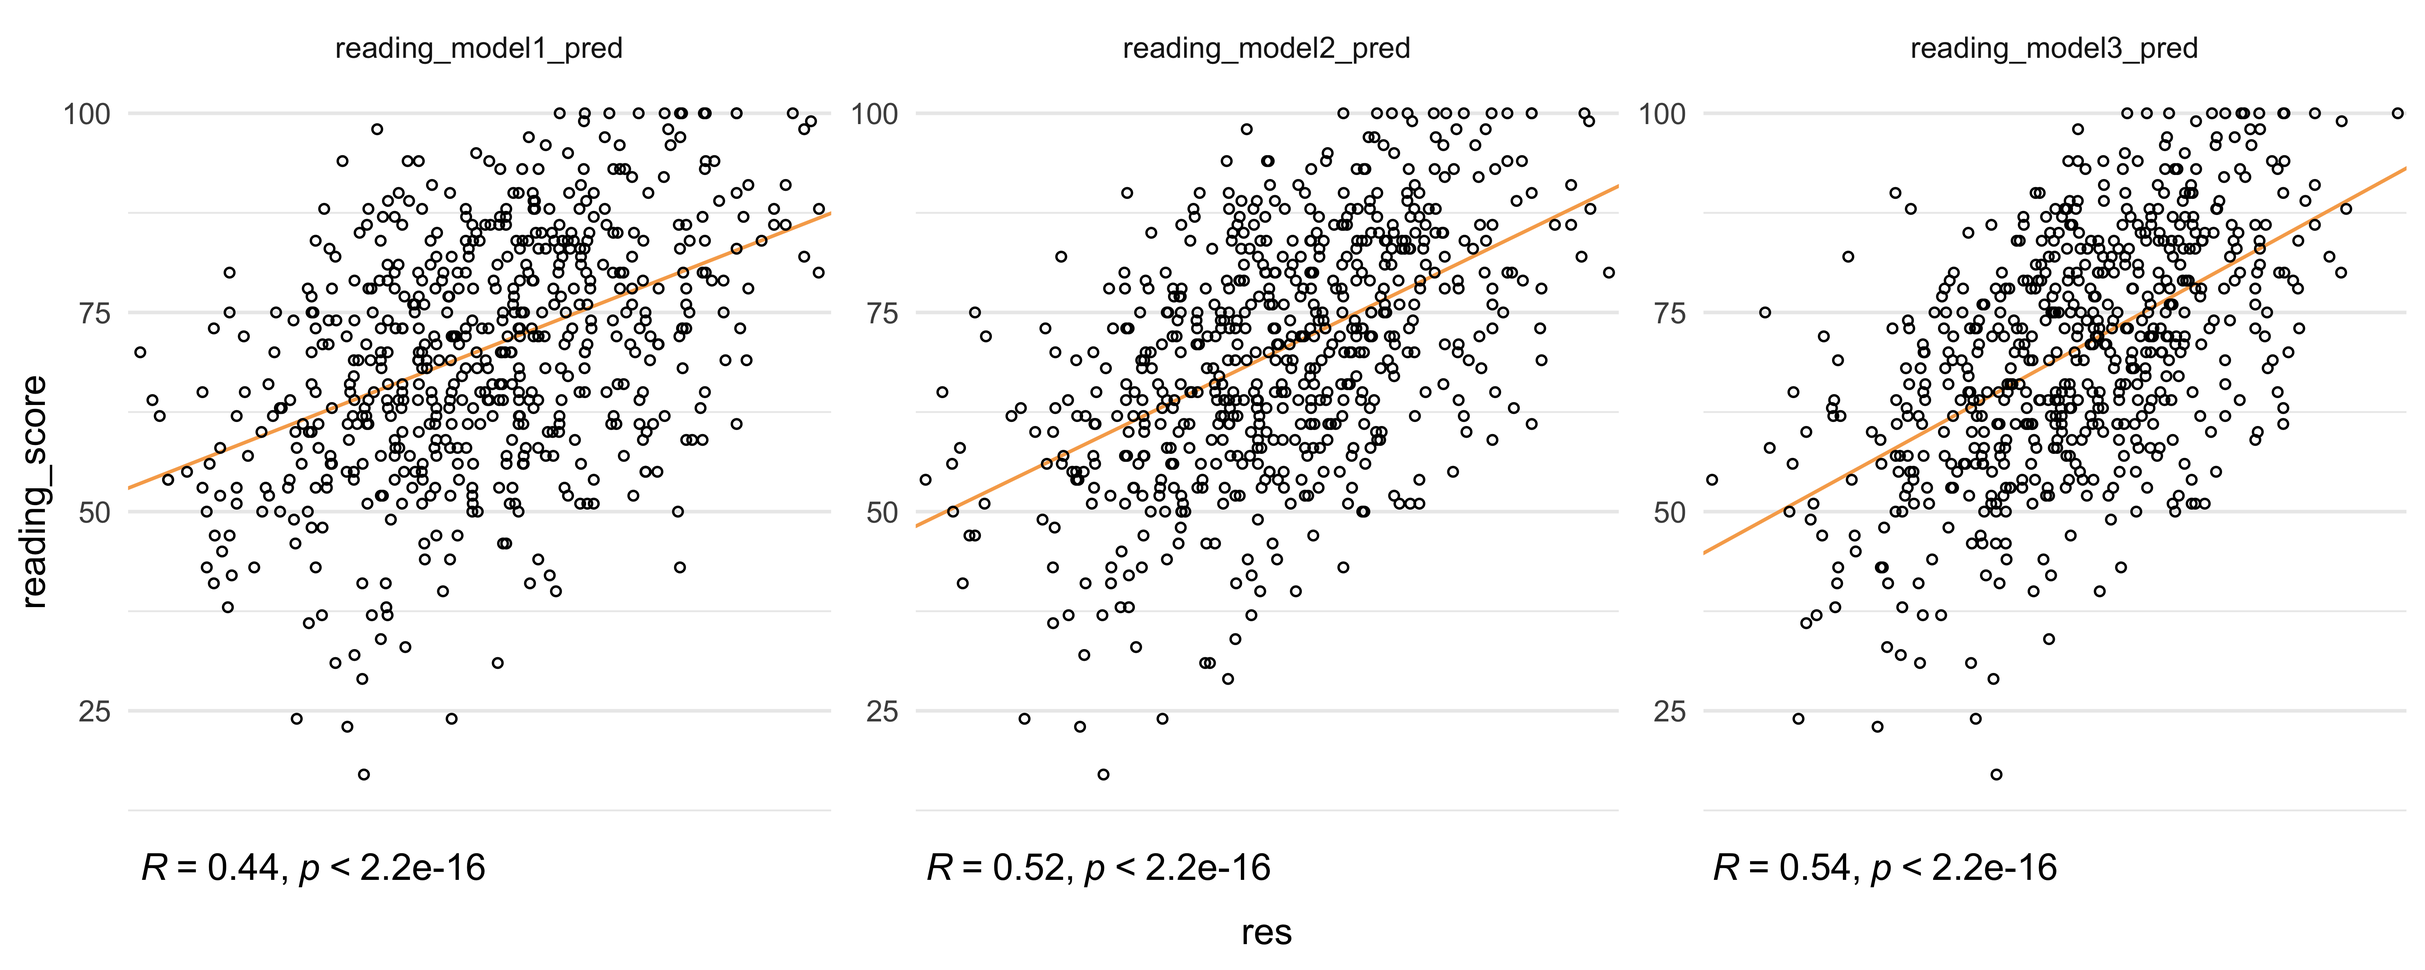
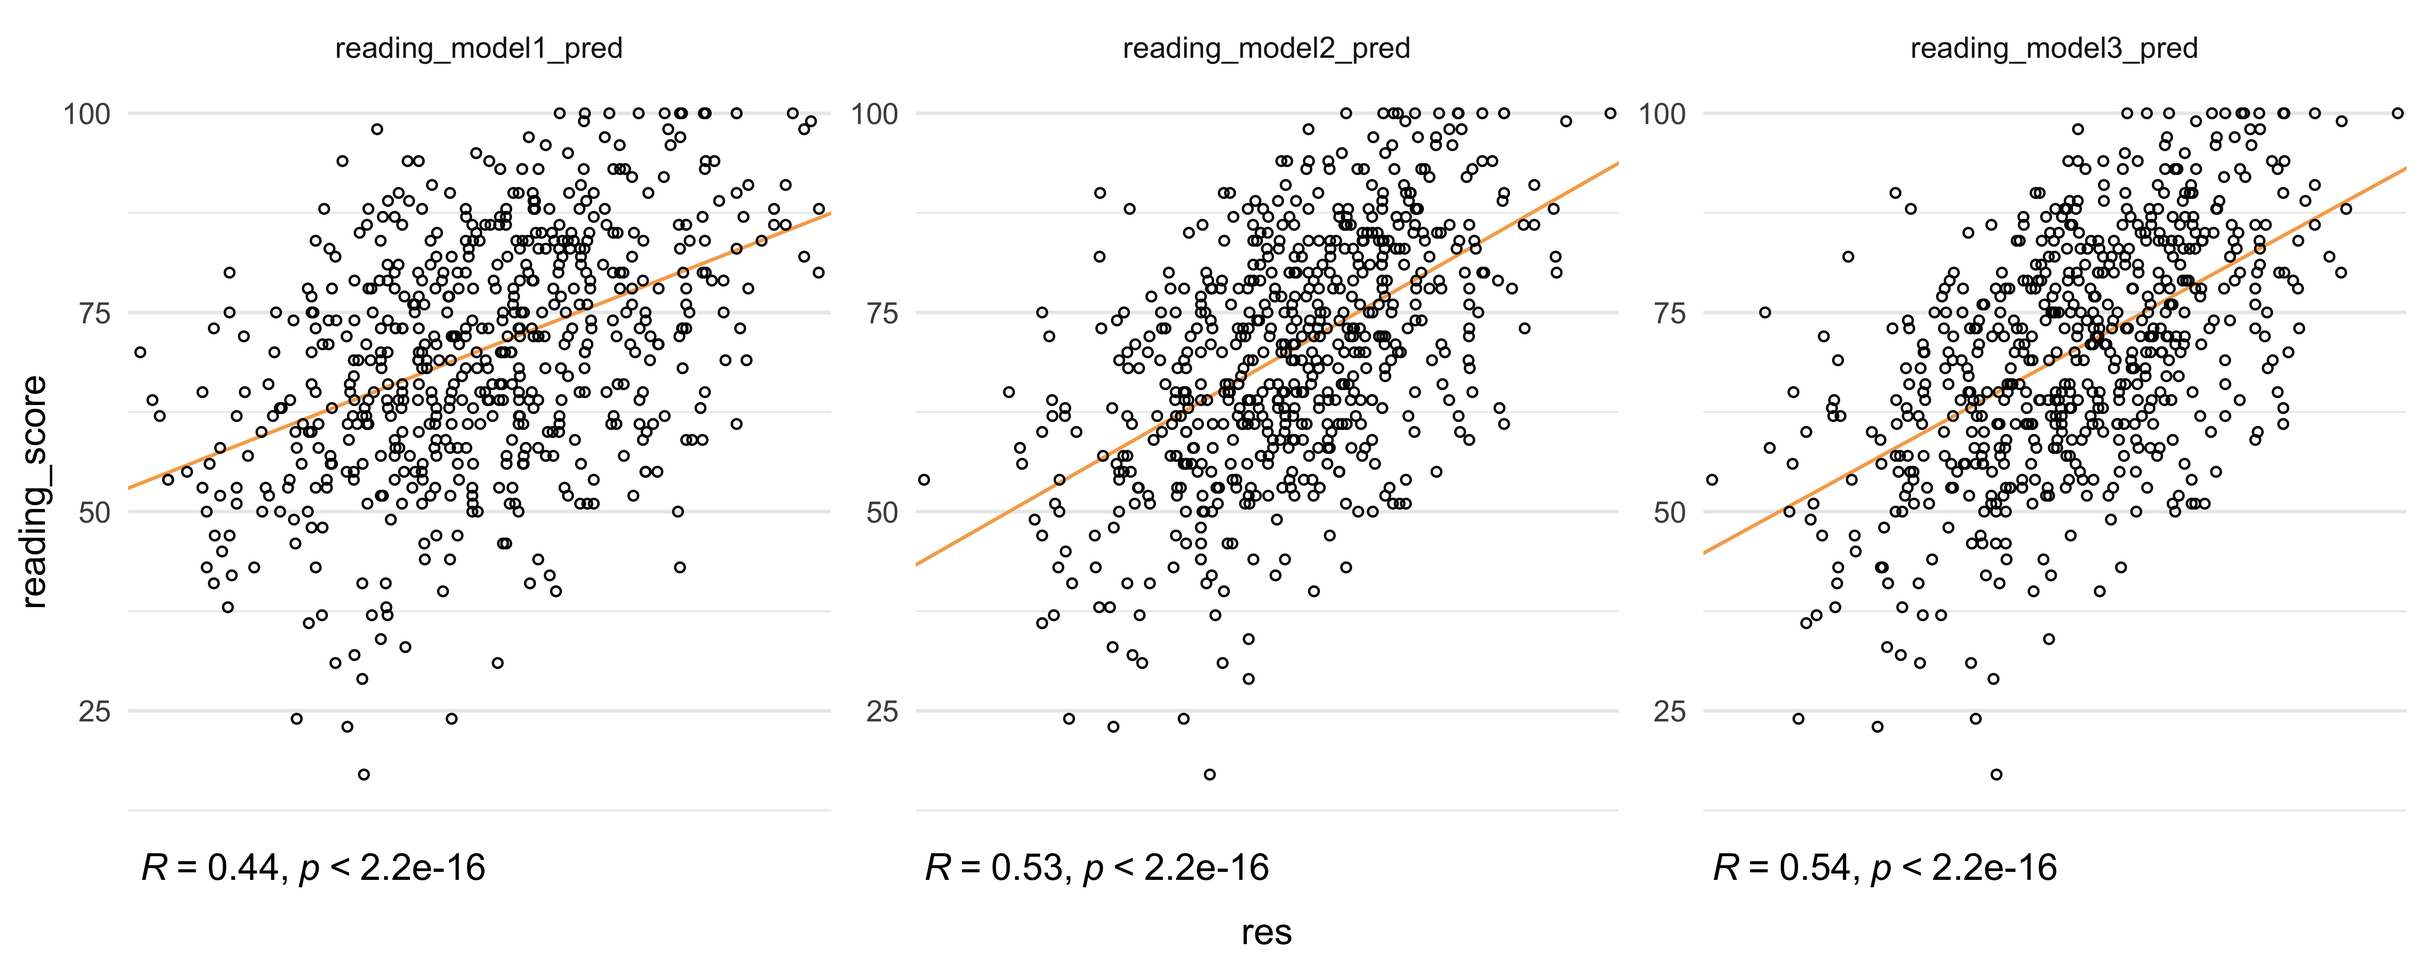
Final Tweaking

Changed region(s): [[0.374, 0.0938, 0.6545, 0.6562], [0.4052, 0.875, 0.5298, 0.9062]]

diff --git a/prediction_reading_score.md b/prediction_reading_score.md
@@ -300,50 +300,81 @@ summary(reading_model2v1)
 ``` r
 ### No significant interaction effect between `ethnic_group` and `parent educ` and adjusted R^2 value decreased. Too many covariates from the interaction. Will not be keeping this.
 
-# Add lunch_type covariate.
-reading_model2v2 <- lm(transformed_reading ~ gender + parent_educ + lunch_type + ethnic_group + test_prep + parent_marital_status + wkly_study_hours, data = score_df)
+# Add lunch_type covariate and added interaction effect between `parent_marital_status` and `wkly_study_hours`
+reading_model2v2 <- lm(transformed_reading ~ gender + parent_educ + lunch_type + ethnic_group + test_prep + parent_marital_status + wkly_study_hours + parent_marital_status*wkly_study_hours, data = score_df)
 summary(reading_model2v2)
 ```
 
     ## 
     ## Call:
     ## lm(formula = transformed_reading ~ gender + parent_educ + lunch_type + 
-    ##     ethnic_group + test_prep + parent_marital_status + wkly_study_hours, 
-    ##     data = score_df)
+    ##     ethnic_group + test_prep + parent_marital_status + wkly_study_hours + 
+    ##     parent_marital_status * wkly_study_hours, data = score_df)
     ## 
     ## Residuals:
-    ##      Min       1Q   Median       3Q      Max 
-    ## -304.377  -84.075   -0.502   87.336  300.484 
+    ##     Min      1Q  Median      3Q     Max 
+    ## -347.49  -80.64   -2.18   88.20  319.93 
     ## 
     ## Coefficients:
-    ##                               Estimate Std. Error t value Pr(>|t|)    
-    ## (Intercept)                    501.466     25.910  19.354  < 2e-16 ***
-    ## gendermale                     -73.109     10.200  -7.167 2.38e-12 ***
-    ## parent_educassociate's degree   44.436     15.863   2.801 0.005264 ** 
-    ## parent_educbachelor's degree    68.744     18.611   3.694 0.000242 ***
-    ## parent_educhigh school          -4.800     16.077  -0.299 0.765353    
-    ## parent_educmaster's degree      82.776     22.700   3.647 0.000290 ***
-    ## parent_educsome college         22.055     16.264   1.356 0.175613    
-    ## lunch_typefree/reduced         -77.600     10.554  -7.353 6.79e-13 ***
-    ## ethnic_groupgroup B            -14.196     20.714  -0.685 0.493400    
-    ## ethnic_groupgroup C             -8.707     19.823  -0.439 0.660660    
-    ## ethnic_groupgroup D             21.702     19.942   1.088 0.276951    
-    ## ethnic_groupgroup E             52.502     21.874   2.400 0.016706 *  
-    ## test_prepnone                  -59.521     10.684  -5.571 3.91e-08 ***
-    ## parent_marital_statusdivorced  -16.893     16.450  -1.027 0.304882    
-    ## parent_marital_statusmarried    29.925     12.367   2.420 0.015844 *  
-    ## parent_marital_statuswidowed    34.210     33.268   1.028 0.304236    
-    ## wkly_study_hours5-10            25.125     12.026   2.089 0.037139 *  
-    ## wkly_study_hours> 10            12.947     15.707   0.824 0.410113    
+    ##                                                    Estimate Std. Error t value
+    ## (Intercept)                                         463.192     29.824  15.531
+    ## gendermale                                          -71.429     10.220  -6.989
+    ## parent_educassociate's degree                        45.411     15.859   2.863
+    ## parent_educbachelor's degree                         70.884     18.634   3.804
+    ## parent_educhigh school                               -7.697     16.110  -0.478
+    ## parent_educmaster's degree                           83.598     22.656   3.690
+    ## parent_educsome college                              23.006     16.228   1.418
+    ## lunch_typefree/reduced                              -78.070     10.569  -7.386
+    ## ethnic_groupgroup B                                 -10.900     20.646  -0.528
+    ## ethnic_groupgroup C                                  -6.444     19.756  -0.326
+    ## ethnic_groupgroup D                                  24.879     19.863   1.253
+    ## ethnic_groupgroup E                                  55.830     21.772   2.564
+    ## test_prepnone                                       -59.990     10.642  -5.637
+    ## parent_marital_statusdivorced                        46.634     32.321   1.443
+    ## parent_marital_statusmarried                         72.135     23.073   3.126
+    ## parent_marital_statuswidowed                        129.611     88.150   1.470
+    ## wkly_study_hours5-10                                 64.224     23.978   2.679
+    ## wkly_study_hours> 10                                 93.013     31.065   2.994
+    ## parent_marital_statusdivorced:wkly_study_hours5-10  -62.714     38.919  -1.611
+    ## parent_marital_statusmarried:wkly_study_hours5-10   -48.107     28.466  -1.690
+    ## parent_marital_statuswidowed:wkly_study_hours5-10  -110.633     96.890  -1.142
+    ## parent_marital_statusdivorced:wkly_study_hours> 10 -166.633     51.146  -3.258
+    ## parent_marital_statusmarried:wkly_study_hours> 10   -91.362     36.952  -2.472
+    ## parent_marital_statuswidowed:wkly_study_hours> 10  -140.502    124.991  -1.124
+    ##                                                    Pr(>|t|)    
+    ## (Intercept)                                         < 2e-16 ***
+    ## gendermale                                         7.87e-12 ***
+    ## parent_educassociate's degree                      0.004348 ** 
+    ## parent_educbachelor's degree                       0.000158 ***
+    ## parent_educhigh school                             0.633007    
+    ## parent_educmaster's degree                         0.000246 ***
+    ## parent_educsome college                            0.156833    
+    ## lunch_typefree/reduced                             5.47e-13 ***
+    ## ethnic_groupgroup B                                0.597739    
+    ## ethnic_groupgroup C                                0.744423    
+    ## ethnic_groupgroup D                                0.210903    
+    ## ethnic_groupgroup E                                0.010598 *  
+    ## test_prepnone                                      2.74e-08 ***
+    ## parent_marital_statusdivorced                      0.149624    
+    ## parent_marital_statusmarried                       0.001861 ** 
+    ## parent_marital_statuswidowed                       0.142025    
+    ## wkly_study_hours5-10                               0.007611 ** 
+    ## wkly_study_hours> 10                               0.002873 ** 
+    ## parent_marital_statusdivorced:wkly_study_hours5-10 0.107653    
+    ## parent_marital_statusmarried:wkly_study_hours5-10  0.091585 .  
+    ## parent_marital_statuswidowed:wkly_study_hours5-10  0.254009    
+    ## parent_marital_statusdivorced:wkly_study_hours> 10 0.001190 ** 
+    ## parent_marital_statusmarried:wkly_study_hours> 10  0.013713 *  
+    ## parent_marital_statuswidowed:wkly_study_hours> 10  0.261453    
     ## ---
     ## Signif. codes:  0 '***' 0.001 '**' 0.01 '*' 0.05 '.' 0.1 ' ' 1
     ## 
-    ## Residual standard error: 121.3 on 569 degrees of freedom
-    ## Multiple R-squared:  0.2692, Adjusted R-squared:  0.2474 
-    ## F-statistic: 12.33 on 17 and 569 DF,  p-value: < 2.2e-16
+    ## Residual standard error: 120.6 on 563 degrees of freedom
+    ## Multiple R-squared:  0.2852, Adjusted R-squared:  0.256 
+    ## F-statistic: 9.766 on 23 and 563 DF,  p-value: < 2.2e-16
 
 ``` r
-### Significant interaction with lunch_type. However, ethnic_group variables demonstrates to be insignificant when lunch_type is added.
+### lunch_type is a significant term and the interaction also is significant.  However, ethnic_group variables demonstrates to be less significant when lunch_type is added.
 
 # Add interaction between `gender`/ `wkly_study_hours` / `test_prep` and `parent_educ`.
 reading_model2v3 <- lm(transformed_reading ~ gender + lunch_type + parent_marital_status + gender*parent_educ + test_prep*parent_educ, data = score_df)
@@ -418,7 +449,7 @@ summary(reading_model2v3)
 ```
 
 ``` r
-reading_model2 <- lm(transformed_reading ~ gender + parent_educ + lunch_type + ethnic_group + test_prep + parent_marital_status + wkly_study_hours, data = score_df)
+reading_model2 <- lm(transformed_reading ~ gender + parent_educ + lunch_type + ethnic_group + test_prep + parent_marital_status + wkly_study_hours + parent_marital_status*wkly_study_hours, data = score_df)
 
 reading_model2 |> 
   broom::tidy() |> 
@@ -430,26 +461,32 @@ reading_model2 |>
   knitr::kable(digits = 50)
 ```
 
-| term                          | estimate | std.error | statistic |  p.value |
-|:------------------------------|---------:|----------:|----------:|---------:|
-| (Intercept)                   |  501.466 |    25.910 |    19.354 | 0.00e+00 |
-| gendermale                    |  -73.109 |    10.200 |    -7.167 | 2.38e-12 |
-| parent_educassociate’s degree |   44.436 |    15.863 |     2.801 | 5.26e-03 |
-| parent_educbachelor’s degree  |   68.744 |    18.611 |     3.694 | 2.42e-04 |
-| parent_educhigh school        |   -4.800 |    16.077 |    -0.299 | 7.65e-01 |
-| parent_educmaster’s degree    |   82.776 |    22.700 |     3.647 | 2.90e-04 |
-| parent_educsome college       |   22.055 |    16.264 |     1.356 | 1.76e-01 |
-| lunch_typefree/reduced        |  -77.600 |    10.554 |    -7.353 | 6.79e-13 |
-| ethnic_groupgroup B           |  -14.196 |    20.714 |    -0.685 | 4.93e-01 |
-| ethnic_groupgroup C           |   -8.707 |    19.823 |    -0.439 | 6.61e-01 |
-| ethnic_groupgroup D           |   21.702 |    19.942 |     1.088 | 2.77e-01 |
-| ethnic_groupgroup E           |   52.502 |    21.874 |     2.400 | 1.67e-02 |
-| test_prepnone                 |  -59.521 |    10.684 |    -5.571 | 3.91e-08 |
-| parent_marital_statusdivorced |  -16.893 |    16.450 |    -1.027 | 3.05e-01 |
-| parent_marital_statusmarried  |   29.925 |    12.367 |     2.420 | 1.58e-02 |
-| parent_marital_statuswidowed  |   34.210 |    33.268 |     1.028 | 3.04e-01 |
-| wkly_study_hours5-10          |   25.125 |    12.026 |     2.089 | 3.71e-02 |
-| wkly_study_hours\> 10         |   12.947 |    15.707 |     0.824 | 4.10e-01 |
+| term | estimate | std.error | statistic | p.value |
+|:---|---:|---:|---:|---:|
+| (Intercept) | 463.192 | 29.824 | 15.531 | 1.56e-45 |
+| gendermale | -71.429 | 10.220 | -6.989 | 7.87e-12 |
+| parent_educassociate’s degree | 45.411 | 15.859 | 2.863 | 4.35e-03 |
+| parent_educbachelor’s degree | 70.884 | 18.634 | 3.804 | 1.58e-04 |
+| parent_educhigh school | -7.697 | 16.110 | -0.478 | 6.33e-01 |
+| parent_educmaster’s degree | 83.598 | 22.656 | 3.690 | 2.46e-04 |
+| parent_educsome college | 23.006 | 16.228 | 1.418 | 1.57e-01 |
+| lunch_typefree/reduced | -78.070 | 10.569 | -7.386 | 5.47e-13 |
+| ethnic_groupgroup B | -10.900 | 20.646 | -0.528 | 5.98e-01 |
+| ethnic_groupgroup C | -6.444 | 19.756 | -0.326 | 7.44e-01 |
+| ethnic_groupgroup D | 24.879 | 19.863 | 1.253 | 2.11e-01 |
+| ethnic_groupgroup E | 55.830 | 21.772 | 2.564 | 1.06e-02 |
+| test_prepnone | -59.990 | 10.642 | -5.637 | 2.74e-08 |
+| parent_marital_statusdivorced | 46.634 | 32.321 | 1.443 | 1.50e-01 |
+| parent_marital_statusmarried | 72.135 | 23.073 | 3.126 | 1.86e-03 |
+| parent_marital_statuswidowed | 129.611 | 88.150 | 1.470 | 1.42e-01 |
+| wkly_study_hours5-10 | 64.224 | 23.978 | 2.679 | 7.61e-03 |
+| wkly_study_hours\> 10 | 93.013 | 31.065 | 2.994 | 2.87e-03 |
+| parent_marital_statusdivorced:wkly_study_hours5-10 | -62.714 | 38.919 | -1.611 | 1.08e-01 |
+| parent_marital_statusmarried:wkly_study_hours5-10 | -48.107 | 28.466 | -1.690 | 9.16e-02 |
+| parent_marital_statuswidowed:wkly_study_hours5-10 | -110.633 | 96.890 | -1.142 | 2.54e-01 |
+| parent_marital_statusdivorced:wkly_study_hours\> 10 | -166.633 | 51.146 | -3.258 | 1.19e-03 |
+| parent_marital_statusmarried:wkly_study_hours\> 10 | -91.362 | 36.952 | -2.472 | 1.37e-02 |
+| parent_marital_statuswidowed:wkly_study_hours\> 10 | -140.502 | 124.991 | -1.124 | 2.61e-01 |
 
 ``` r
 par(mfrow = c(2,2))
@@ -994,7 +1031,7 @@ filtered_df <- score_df |>
 #fit a regression model and use k-fold CV to evaluate performance
 model1 <- train(transformed_reading ~ gender + ethnic_group + parent_educ + test_prep + parent_marital_status + wkly_study_hours, data = filtered_df, method = "lm", trControl = ctrl)
 
-model2 <- train(transformed_reading ~ gender + parent_educ + lunch_type + ethnic_group + test_prep + parent_marital_status + wkly_study_hours, data = filtered_df, method = "lm", trControl = ctrl)
+model2 <- train(transformed_reading ~ gender + parent_educ + lunch_type + ethnic_group + test_prep + parent_marital_status + wkly_study_hours + parent_marital_status*wkly_study_hours, data = filtered_df, method = "lm", trControl = ctrl)
 
 model3 <- train(transformed_reading ~ gender + lunch_type + is_first_child:parent_educ + parent_marital_status:wkly_study_hours + ethnic_group:test_prep, data = filtered_df, method = "lm", trControl = ctrl)
 
@@ -1049,7 +1086,7 @@ bind_rows(model1$results, model2$results, model3$results) |>
 | model_id | intercept |    RMSE | Rsquared |     MAE | RMSESD | RsquaredSD | MAESD |
 |---------:|:----------|--------:|---------:|--------:|-------:|-----------:|------:|
 |        1 | TRUE      | 129.251 |    0.160 | 104.486 |  6.984 |      0.067 | 6.426 |
-|        2 | TRUE      | 121.815 |    0.243 |  99.248 |  6.277 |      0.055 | 5.473 |
+|        2 | TRUE      | 121.818 |    0.244 |  99.713 |  5.941 |      0.055 | 5.328 |
 |        3 | TRUE      | 124.509 |    0.214 | 102.166 |  2.568 |      0.014 | 2.064 |
 
 Performance matrices of the 3 Multiple Linear Regression Models
@@ -1065,36 +1102,67 @@ summary(reading_model2)
     ## 
     ## Call:
     ## lm(formula = transformed_reading ~ gender + parent_educ + lunch_type + 
-    ##     ethnic_group + test_prep + parent_marital_status + wkly_study_hours, 
-    ##     data = score_df)
+    ##     ethnic_group + test_prep + parent_marital_status + wkly_study_hours + 
+    ##     parent_marital_status * wkly_study_hours, data = score_df)
     ## 
     ## Residuals:
-    ##      Min       1Q   Median       3Q      Max 
-    ## -304.377  -84.075   -0.502   87.336  300.484 
+    ##     Min      1Q  Median      3Q     Max 
+    ## -347.49  -80.64   -2.18   88.20  319.93 
     ## 
     ## Coefficients:
-    ##                               Estimate Std. Error t value Pr(>|t|)    
-    ## (Intercept)                    501.466     25.910  19.354  < 2e-16 ***
-    ## gendermale                     -73.109     10.200  -7.167 2.38e-12 ***
-    ## parent_educassociate's degree   44.436     15.863   2.801 0.005264 ** 
-    ## parent_educbachelor's degree    68.744     18.611   3.694 0.000242 ***
-    ## parent_educhigh school          -4.800     16.077  -0.299 0.765353    
-    ## parent_educmaster's degree      82.776     22.700   3.647 0.000290 ***
-    ## parent_educsome college         22.055     16.264   1.356 0.175613    
-    ## lunch_typefree/reduced         -77.600     10.554  -7.353 6.79e-13 ***
-    ## ethnic_groupgroup B            -14.196     20.714  -0.685 0.493400    
-    ## ethnic_groupgroup C             -8.707     19.823  -0.439 0.660660    
-    ## ethnic_groupgroup D             21.702     19.942   1.088 0.276951    
-    ## ethnic_groupgroup E             52.502     21.874   2.400 0.016706 *  
-    ## test_prepnone                  -59.521     10.684  -5.571 3.91e-08 ***
-    ## parent_marital_statusdivorced  -16.893     16.450  -1.027 0.304882    
-    ## parent_marital_statusmarried    29.925     12.367   2.420 0.015844 *  
-    ## parent_marital_statuswidowed    34.210     33.268   1.028 0.304236    
-    ## wkly_study_hours5-10            25.125     12.026   2.089 0.037139 *  
-    ## wkly_study_hours> 10            12.947     15.707   0.824 0.410113    
+    ##                                                    Estimate Std. Error t value
+    ## (Intercept)                                         463.192     29.824  15.531
+    ## gendermale                                          -71.429     10.220  -6.989
+    ## parent_educassociate's degree                        45.411     15.859   2.863
+    ## parent_educbachelor's degree                         70.884     18.634   3.804
+    ## parent_educhigh school                               -7.697     16.110  -0.478
+    ## parent_educmaster's degree                           83.598     22.656   3.690
+    ## parent_educsome college                              23.006     16.228   1.418
+    ## lunch_typefree/reduced                              -78.070     10.569  -7.386
+    ## ethnic_groupgroup B                                 -10.900     20.646  -0.528
+    ## ethnic_groupgroup C                                  -6.444     19.756  -0.326
+    ## ethnic_groupgroup D                                  24.879     19.863   1.253
+    ## ethnic_groupgroup E                                  55.830     21.772   2.564
+    ## test_prepnone                                       -59.990     10.642  -5.637
+    ## parent_marital_statusdivorced                        46.634     32.321   1.443
+    ## parent_marital_statusmarried                         72.135     23.073   3.126
+    ## parent_marital_statuswidowed                        129.611     88.150   1.470
+    ## wkly_study_hours5-10                                 64.224     23.978   2.679
+    ## wkly_study_hours> 10                                 93.013     31.065   2.994
+    ## parent_marital_statusdivorced:wkly_study_hours5-10  -62.714     38.919  -1.611
+    ## parent_marital_statusmarried:wkly_study_hours5-10   -48.107     28.466  -1.690
+    ## parent_marital_statuswidowed:wkly_study_hours5-10  -110.633     96.890  -1.142
+    ## parent_marital_statusdivorced:wkly_study_hours> 10 -166.633     51.146  -3.258
+    ## parent_marital_statusmarried:wkly_study_hours> 10   -91.362     36.952  -2.472
+    ## parent_marital_statuswidowed:wkly_study_hours> 10  -140.502    124.991  -1.124
+    ##                                                    Pr(>|t|)    
+    ## (Intercept)                                         < 2e-16 ***
+    ## gendermale                                         7.87e-12 ***
+    ## parent_educassociate's degree                      0.004348 ** 
+    ## parent_educbachelor's degree                       0.000158 ***
+    ## parent_educhigh school                             0.633007    
+    ## parent_educmaster's degree                         0.000246 ***
+    ## parent_educsome college                            0.156833    
+    ## lunch_typefree/reduced                             5.47e-13 ***
+    ## ethnic_groupgroup B                                0.597739    
+    ## ethnic_groupgroup C                                0.744423    
+    ## ethnic_groupgroup D                                0.210903    
+    ## ethnic_groupgroup E                                0.010598 *  
+    ## test_prepnone                                      2.74e-08 ***
+    ## parent_marital_statusdivorced                      0.149624    
+    ## parent_marital_statusmarried                       0.001861 ** 
+    ## parent_marital_statuswidowed                       0.142025    
+    ## wkly_study_hours5-10                               0.007611 ** 
+    ## wkly_study_hours> 10                               0.002873 ** 
+    ## parent_marital_statusdivorced:wkly_study_hours5-10 0.107653    
+    ## parent_marital_statusmarried:wkly_study_hours5-10  0.091585 .  
+    ## parent_marital_statuswidowed:wkly_study_hours5-10  0.254009    
+    ## parent_marital_statusdivorced:wkly_study_hours> 10 0.001190 ** 
+    ## parent_marital_statusmarried:wkly_study_hours> 10  0.013713 *  
+    ## parent_marital_statuswidowed:wkly_study_hours> 10  0.261453    
     ## ---
     ## Signif. codes:  0 '***' 0.001 '**' 0.01 '*' 0.05 '.' 0.1 ' ' 1
     ## 
-    ## Residual standard error: 121.3 on 569 degrees of freedom
-    ## Multiple R-squared:  0.2692, Adjusted R-squared:  0.2474 
-    ## F-statistic: 12.33 on 17 and 569 DF,  p-value: < 2.2e-16
+    ## Residual standard error: 120.6 on 563 degrees of freedom
+    ## Multiple R-squared:  0.2852, Adjusted R-squared:  0.256 
+    ## F-statistic: 9.766 on 23 and 563 DF,  p-value: < 2.2e-16
